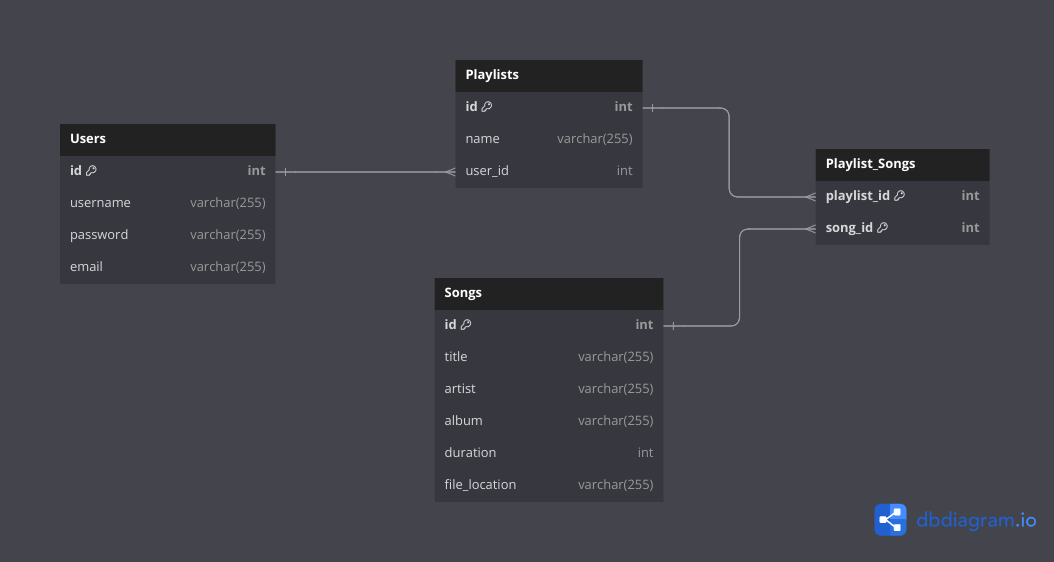
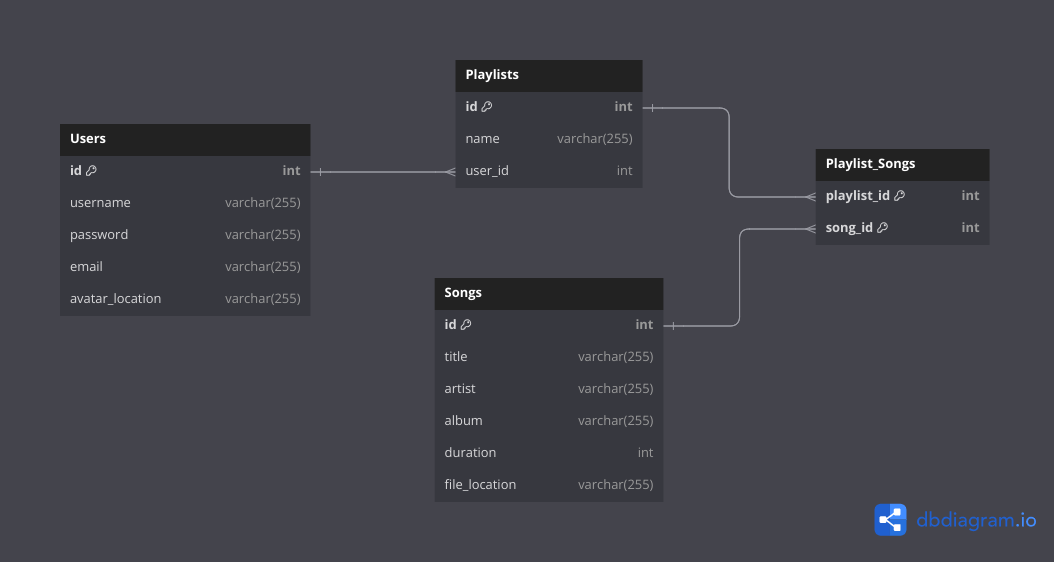
finish database setup

diff --git a/app.js b/app.js
@@ -3,8 +3,13 @@ const path = require('path');
 const express = require('express');
 const bodyParser = require('body-parser');
 
+// define models here
 const sequelize = require('./util/database');
 const user = require('./models/user');
+const song = require('./models/song');
+const playlist = require('./models/playlist');
+const playlist_song = require('./models/playlist_song');
+
 // add routes here (add the correct path)
 const userRoutes = require('./routes/user');
 
@@ -20,10 +25,22 @@ app.use(express.static(path.join(__dirname, 'public')));
 
 app.use(userRoutes);
 
+// create associations
+playlist.belongsTo(user, { foreignKey: 'user_id' });
+user.hasMany(playlist, { foreignKey: 'user_id' });
 
-sequelize.sync().then(result => {
-    console.log(result);
+playlist_song.belongsTo(playlist, { foreignKey: 'playlist_id' });
+playlist.hasMany(playlist_song, { foreignKey: 'playlist_id' });
+
+playlist_song.belongsTo(song, { foreignKey: 'song_id' });
+song.hasMany(playlist_song, { foreignKey: 'song_id' });
+
+
+sequelize.sync().then(result => { // remove force in production
+    console.log("Database synced successfully");
+    // console.log(result);
     app.listen(3000);
 }).catch(err => {
-    console.log(err);
+    console.log("Error in syncing database:")
+    // console.log(err);
 });

diff --git a/models/song.js b/models/song.js
@@ -1,0 +1,35 @@
+const Sequelize = require('sequelize');
+const sequelize = require('../util/database');
+
+const Song = sequelize.define('Song', {
+    id: {
+        type: Sequelize.INTEGER,
+        primaryKey: true,
+        autoIncrement: true
+    },
+    title: {
+        type: Sequelize.STRING,
+        allowNull: false
+    },
+    artist: {
+        type: Sequelize.STRING,
+        allowNull: false
+    },
+    album: {
+        type: Sequelize.STRING,
+        allowNull: false
+    },
+    duration: {
+        type: Sequelize.INTEGER,
+        allowNull: false
+    },
+    file_location: {
+        type: Sequelize.STRING,
+        allowNull: false
+    }
+}, {
+    tableName: 'Songs', 
+    timestamps: false
+});
+
+module.exports = Song;

diff --git a/models/playlist_song.js b/models/playlist_song.js
@@ -1,0 +1,28 @@
+const Sequelize = require('sequelize');
+const sequelize = require('../util/database');
+
+const PlaylistSong = sequelize.define('PlaylistSong', {
+    playlist_id: {
+        type: Sequelize.INTEGER,
+        allowNull: false,
+        primaryKey: true,
+        references: {
+            model: 'Playlists',
+            key: 'id'
+        }
+    },
+    song_id: {
+        type: Sequelize.INTEGER,
+        allowNull: false,
+        primaryKey: true,
+        references: {
+            model: 'Songs',
+            key: 'id'
+        }
+    }
+}, {
+    tableName: 'Playlist_Songs',
+    timestamps: false
+});
+
+module.exports = PlaylistSong;

diff --git a/models/playlist.js b/models/playlist.js
@@ -1,0 +1,22 @@
+const Sequelize = require('sequelize');
+const sequelize = require('../util/database');
+const Playlist = sequelize.define('Playlist', {
+    id: {
+        type: Sequelize.INTEGER,
+        primaryKey: true,
+        autoIncrement: true
+    },
+    name: {
+        type: Sequelize.STRING,
+        allowNull: false
+    },
+    user_id: {
+        type: Sequelize.INTEGER,
+        allowNull: false
+    }
+}, {
+    tableName: 'Playlists',
+    timestamps: false
+});
+
+module.exports = Playlist;

diff --git a/util/database.js b/util/database.js
@@ -5,7 +5,8 @@ const sequelize = new Sequelize('music_app', 'root', 'secret', {
     dialect: 'postgres',
     dialectOptions: {
         ssl: false
-    }
+    },
+    logging: false
 });
 
 module.exports = sequelize;

diff --git a/models/user.js b/models/user.js
@@ -17,6 +17,10 @@ const User = sequelize.define('user', {
   email: {
     type: Sequelize.STRING,
     unique: true
+  },
+  avatar_location: {
+    type: Sequelize.STRING,
+    defaultValue: 'default.jpg'
   }
 });
 
